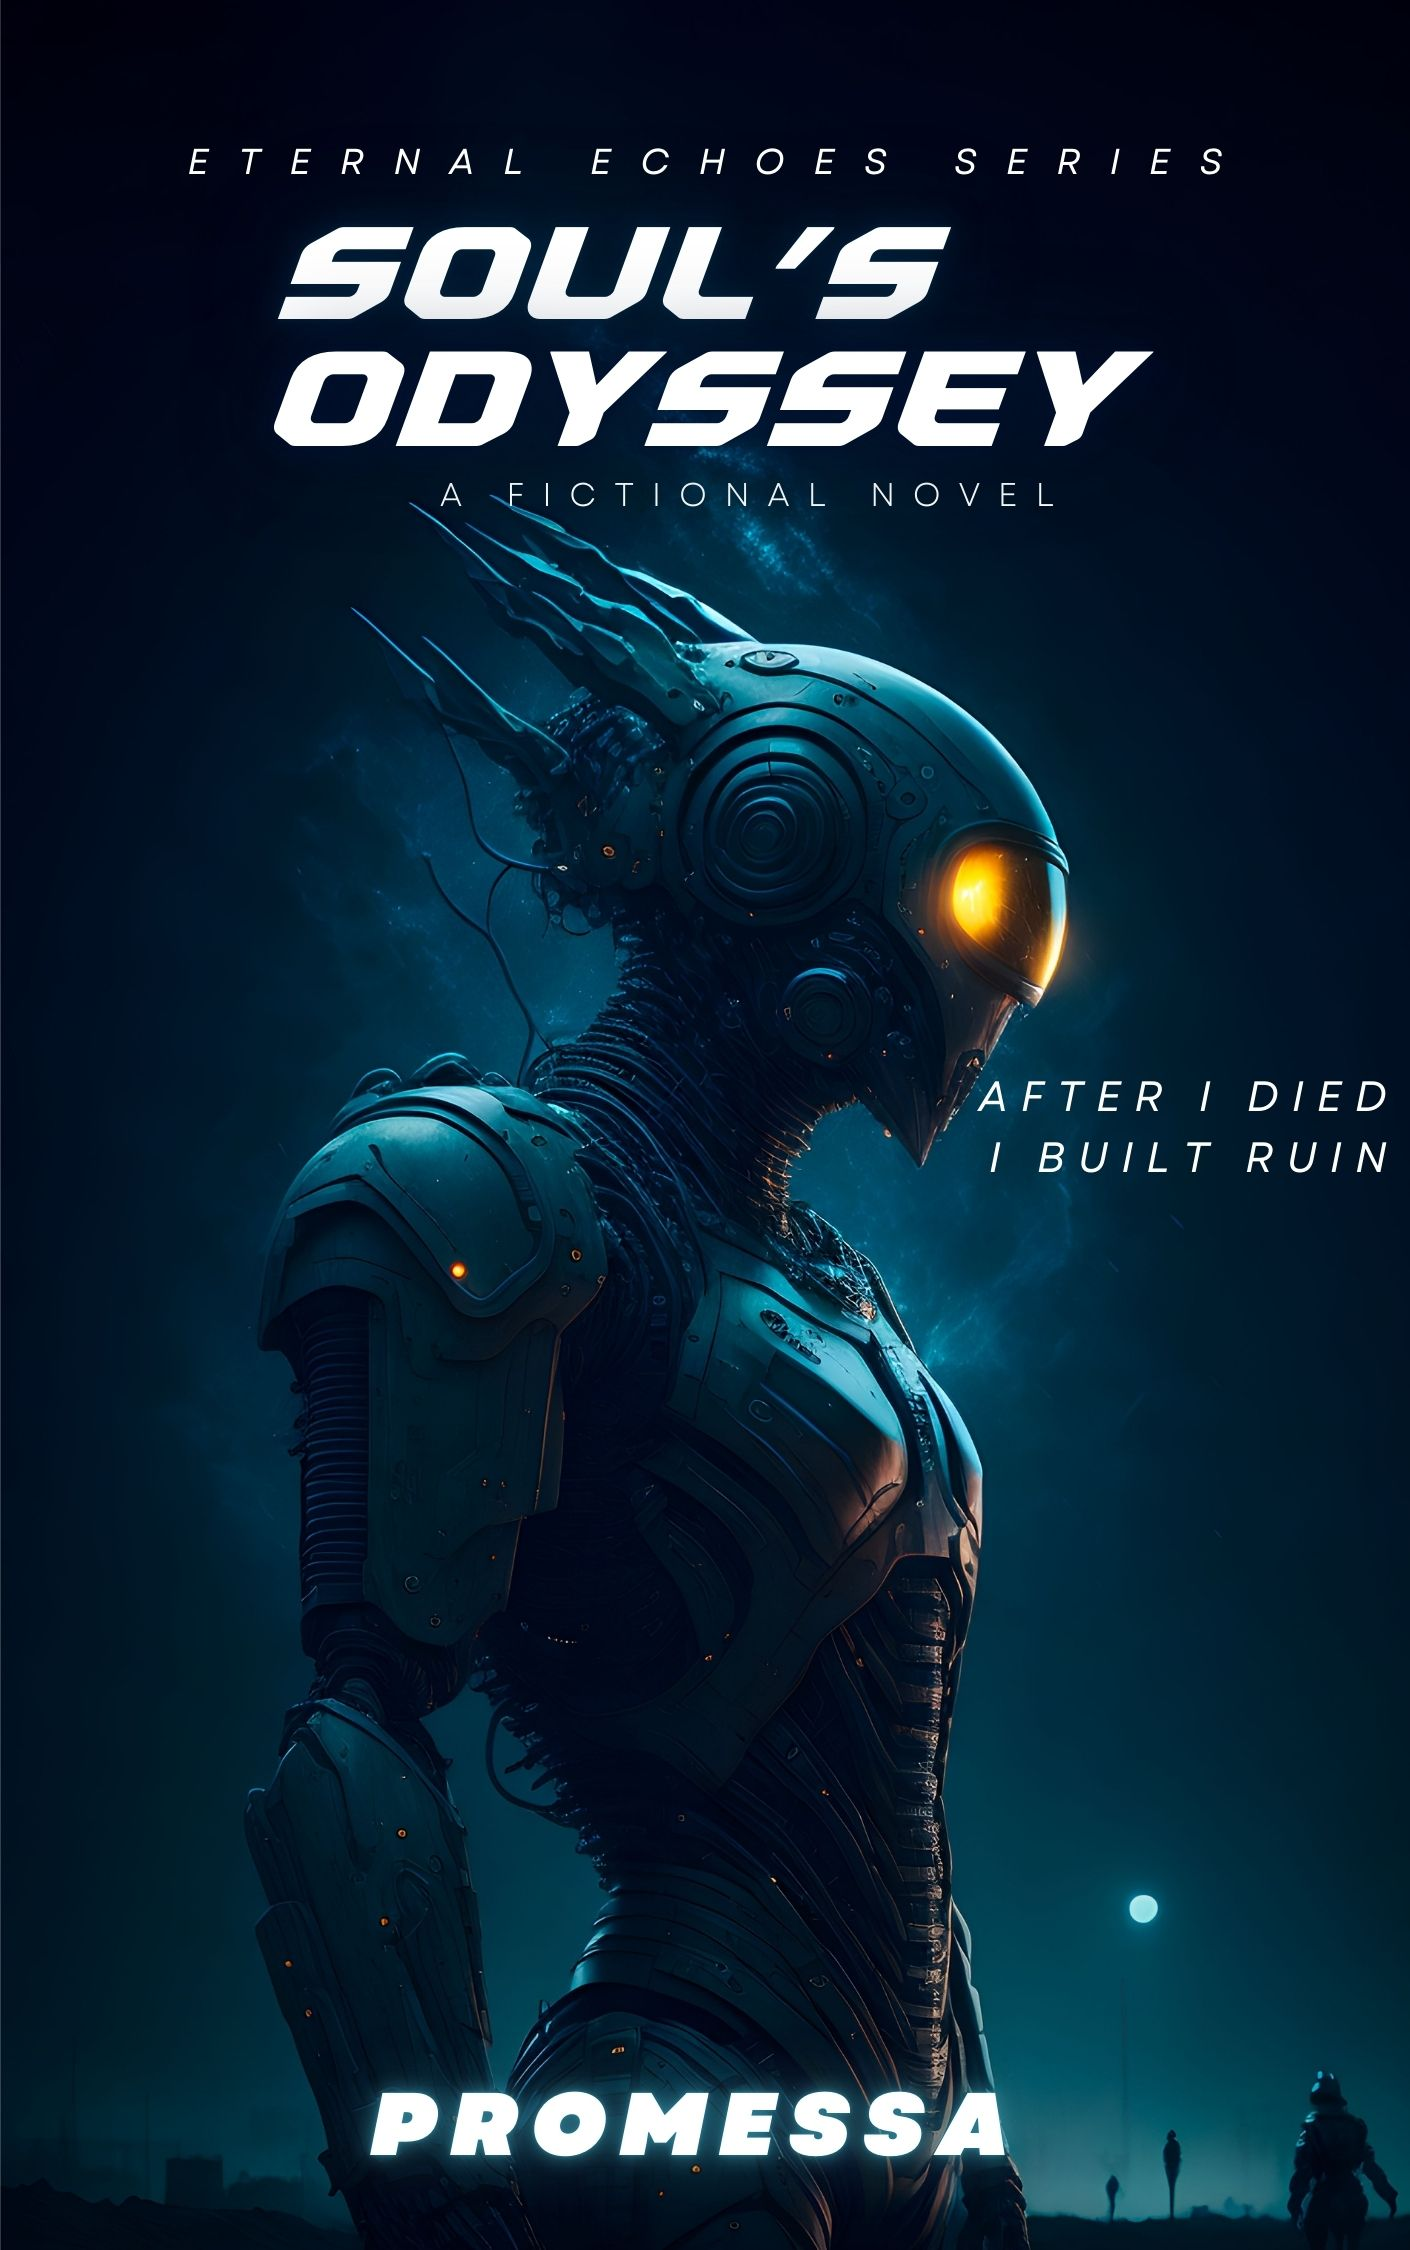
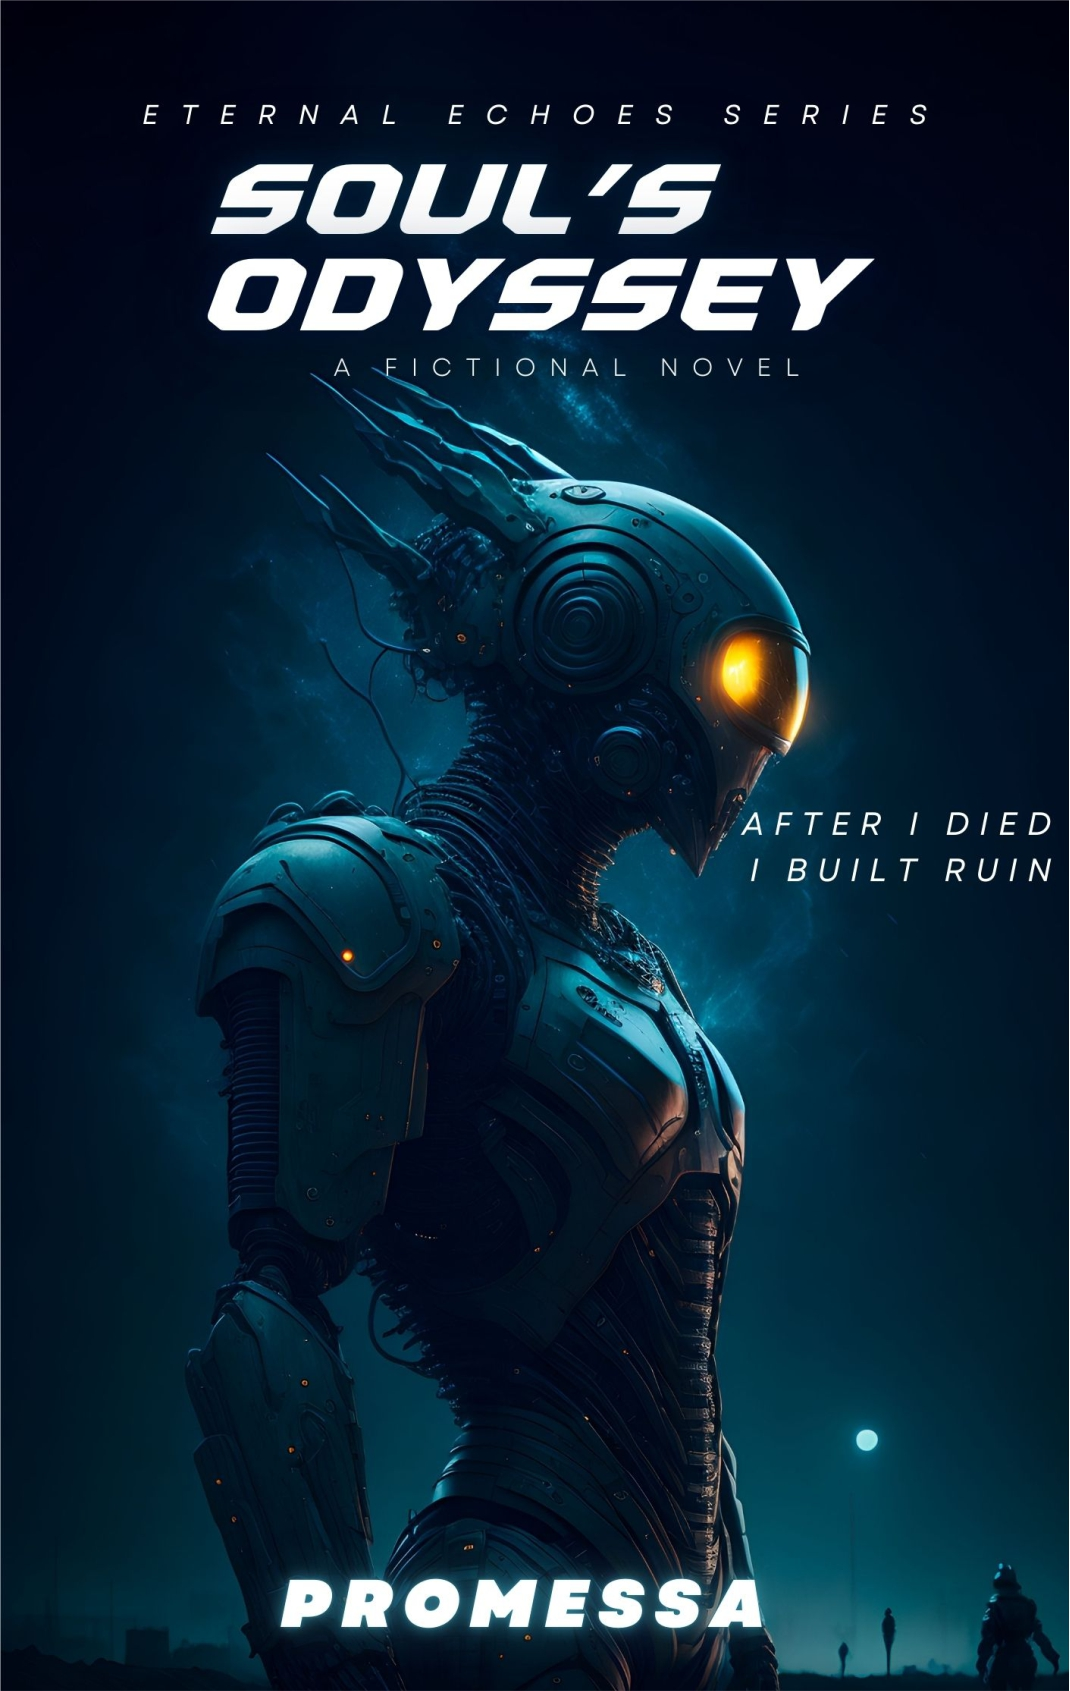
added half project section, plus styling for responsivesness

diff --git a/src/components/Projects.jsx b/src/components/Projects.jsx
@@ -3,15 +3,15 @@ import "../styles/projects.css";
 
 const Projects = () => {
   return (
-    // move this section to a separate component
-
     <section className="projects">
-      <div className="projects-container">
-        <div className="flyers">
+      <section className="graphics-design">
+        <br />
+        <h2>Flyers</h2>
+        <br />
+        <div className="flyers-container">
           <img src="src/assets/graphics projects/real int ad.jpg" alt="" />
           <img src="src/assets/graphics projects/real max ad.jpg" alt="" />
           <img src="src/assets/graphics projects/freight bunny.jpg" alt="" />
-          <img src="src/assets/graphics projects/nescafe.jpg" alt="" />
           <img src="src/assets/graphics projects/gloryland.jpg" alt="" />
           <img src="src/assets/graphics projects/gdg.jpg" alt="" />
           <img src="src/assets/graphics projects/lacadous.jpg" alt="" />
@@ -20,7 +20,55 @@ const Projects = () => {
           <img src="src/assets/graphics projects/kindred spirits.jpg" alt="" />
           <img src="src/assets/graphics projects/neephia stitches.jpg" alt="" />
         </div>
-      </div>
+        <br />
+        <h2>Social Media Posts</h2>
+        <br />
+        <div className="social-media-container">
+          <img src="src/assets/graphics projects/nikee.jpg" alt="" />
+          <img src="src/assets/graphics projects/monsta or food 2.jpg" alt="" />
+          <img src="src/assets/graphics projects/robot.jpg" alt="" />
+        </div>
+        <br />
+      </section>
+
+      {/* logos */}
+      <section className="logos">
+        <br />
+        <h2>Logos</h2>
+        <br />
+        <div className="logos-container">
+          <img src="src/assets/graphics projects/real int ad.jpg" alt="" />
+        </div>
+        <br />
+      </section>
+
+      {/* brand identity */}
+      <section className="brand-designs">
+        <br />
+        <h2>Brand Designs</h2>
+        <br />
+        <div className="brands-container">
+          <img src="src/assets/graphics projects/real int ad.jpg" alt="" />
+        </div>
+        <br />
+      </section>
+
+      {/* websites */}
+      <section className="websites">
+        <br />
+        <h2>Websites</h2>
+        <br />
+        <div className="websites-container">
+          <div className="website">
+            <img src="src/assets/solutions.jpg" alt="" />
+            <p>Tenzies Game</p>
+          </div>
+          <div className="website"></div>
+          <div className="website"></div>
+          <div className="website"></div>
+        </div>
+        <br />
+      </section>
     </section>
   );
 };

diff --git a/src/styles/projects.css b/src/styles/projects.css
@@ -1,28 +1,55 @@
 .projects {
-  border: 2px solid green;
-}
-.projects-container {
-  border: 2px solid red;
-  min-height: 100%;
-  width: 95%;
-  margin: 0 auto;
-}
-.flyers {
-  border: 2px solid blue;
+  border: 5px solid white;
+  color: #d1d1df;
   text-align: center;
+}
+.flyers-container,
+.social-media-container {
   display: flex;
   flex-wrap: wrap;
-  gap: 1rem;
-  align-items: center;
+  gap: 0.5rem;
   justify-content: center;
-  background-color: #1a1a1a;
+}
+.flyers-container img,
+.social-media-container img {
+  width: 20rem;
+  border: 2px solid #d1d1df;
+  border-radius: 1rem;
 }
 
-.flyers img {
-  width: 30%;
-  transition: 0.5s;
-  border-radius: 5%;
+.logos {
+  border: 1px solid;
 }
-.flyers img:hover {
-  width: 31%;
+.logos img {
+  width: 20rem;
+}
+.brand-designs {
+  border: 1px solid;
+}
+.brand-designs img {
+  width: 20rem;
+}
+
+.websites {
+  border: 2px solid grey;
+}
+.websites img {
+  width: 20rem;
+}
+.websites-container {
+  border: 5px solid red;
+  padding: 7.5px;
+  display: flex;
+  flex-wrap: wrap;
+  gap: 0.5rem;
+  justify-content: center;
+}
+.website {
+  width: 35rem;
+  height: 20rem;
+  border: 2px solid #d1d1df;
+  display: flex;
+  align-items: center;
+  justify-content: space-evenly;
+  flex-direction: column;
 }

diff --git a/src/styles/nav.css b/src/styles/nav.css
@@ -8,6 +8,8 @@
   padding: 0.75rem;
   box-shadow: 10px #000;
   height: 4.5rem;
+  max-width: 100vw;
+  /* overflow: hidden; */
 }
 
 .nav-links {
@@ -40,7 +42,7 @@
   visibility: hidden;
   opacity: 0;
   transition-property: opacity, visibility, transform;
-  transition-duration: 1ms;
+  transition-duration: 0.2ms;
   background-color: #d1d1cf;
   width: 50%;
   background: none;
@@ -58,7 +60,7 @@
   width: 80vw;
   background-color: #d1d1cf;
   background: none;
-  transition-delay: 200ms
+  transition-delay: 200ms;
 }
 .pop-up-body {
   padding: 1.5rem;

diff --git a/src/styles/morsk.css b/src/styles/morsk.css
@@ -19,12 +19,12 @@
 }
 .morsk-cards-container {
   display: flex;
-  flex-direction: row;
-  width: 90%;
-  justify-content: space-around;
+  width: 95%;
+  justify-content: space-between;
+  gap: 1rem;
 }
 .morsk-card {
-  width: 40%;
+  width: 30rem;
   padding: 0.25rem;
   display: flex;
   flex-direction: column;
@@ -39,7 +39,7 @@
   line-height: 1.5rem;
   border: none;
   padding: 1rem;
-  width: 47.5%;
+  width: 32rem;
 }
 .morsk-card2 {
   border-left: 2px solid #1a1a1a;

diff --git a/src/components/Morsk.jsx b/src/components/Morsk.jsx
@@ -6,8 +6,7 @@ export const Morsk = () => {
     <section className="morsk-section">
       <div className="morsk-flex-container">
         <h2 style={{ textAlign: "center" }} className="morsk-header">
-          Why not Morsk?
-          <br /> when we offer you
+          Why not Morsk when we offer you
         </h2>
         <div className="morsk-cards-container">
           <div className="morsk-card card1 ">
